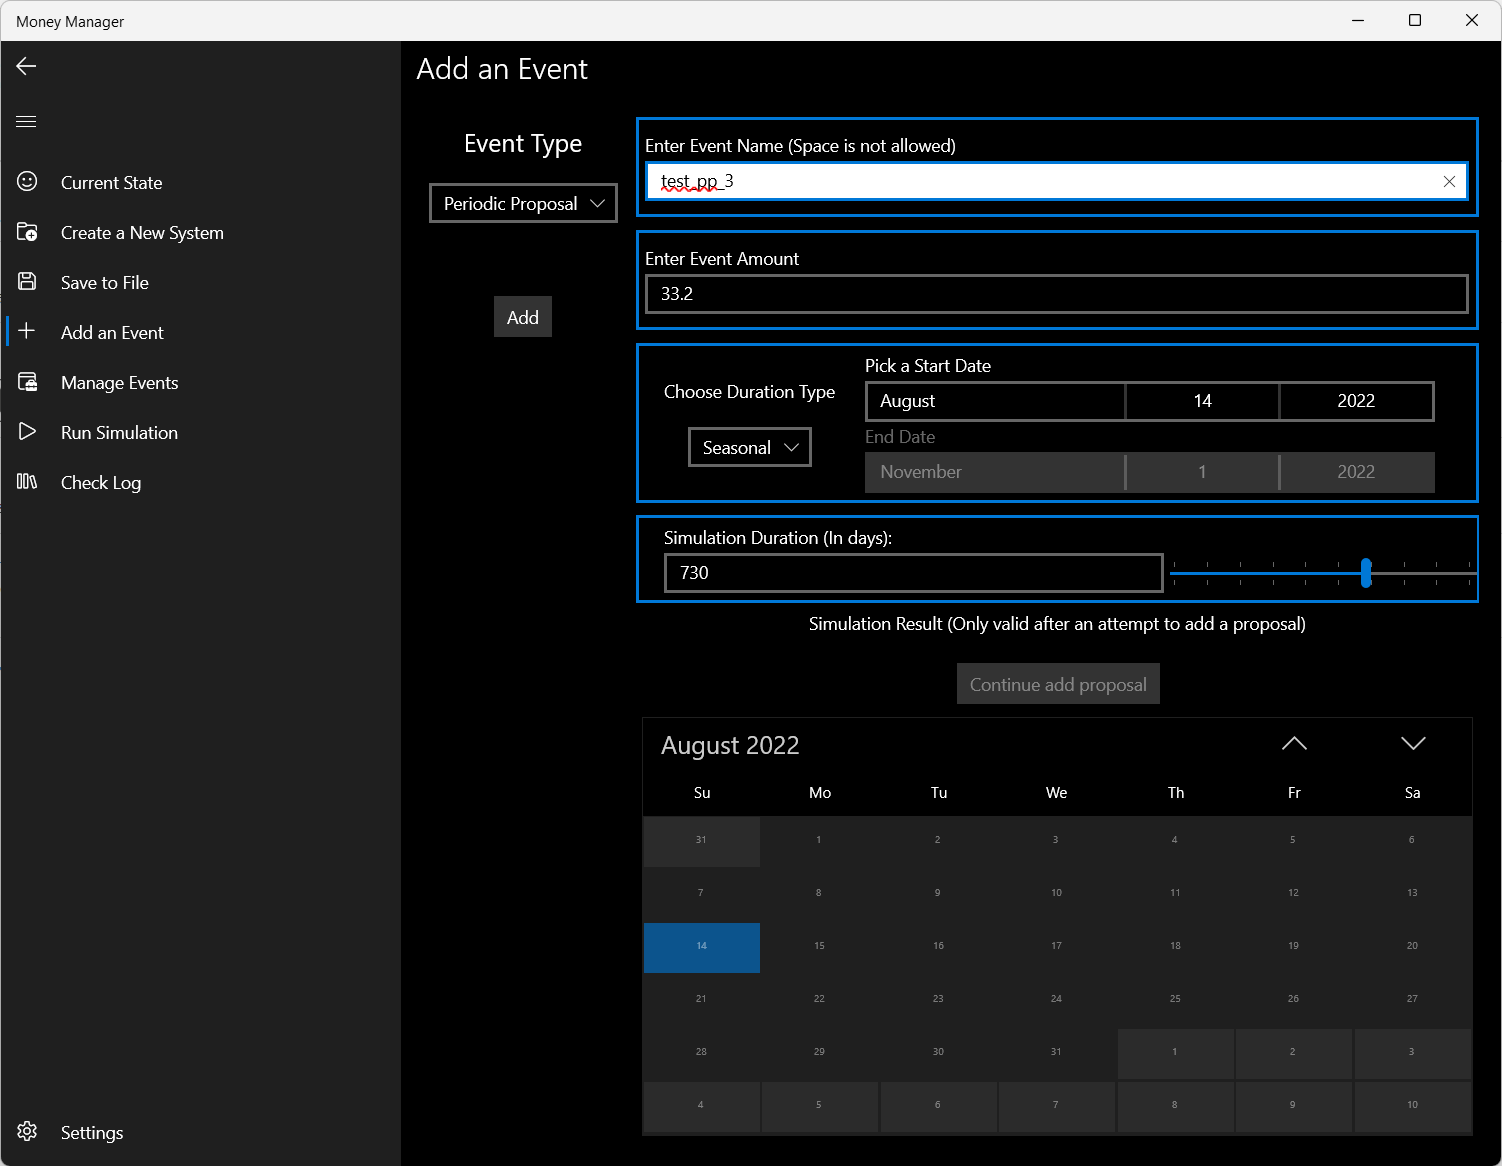
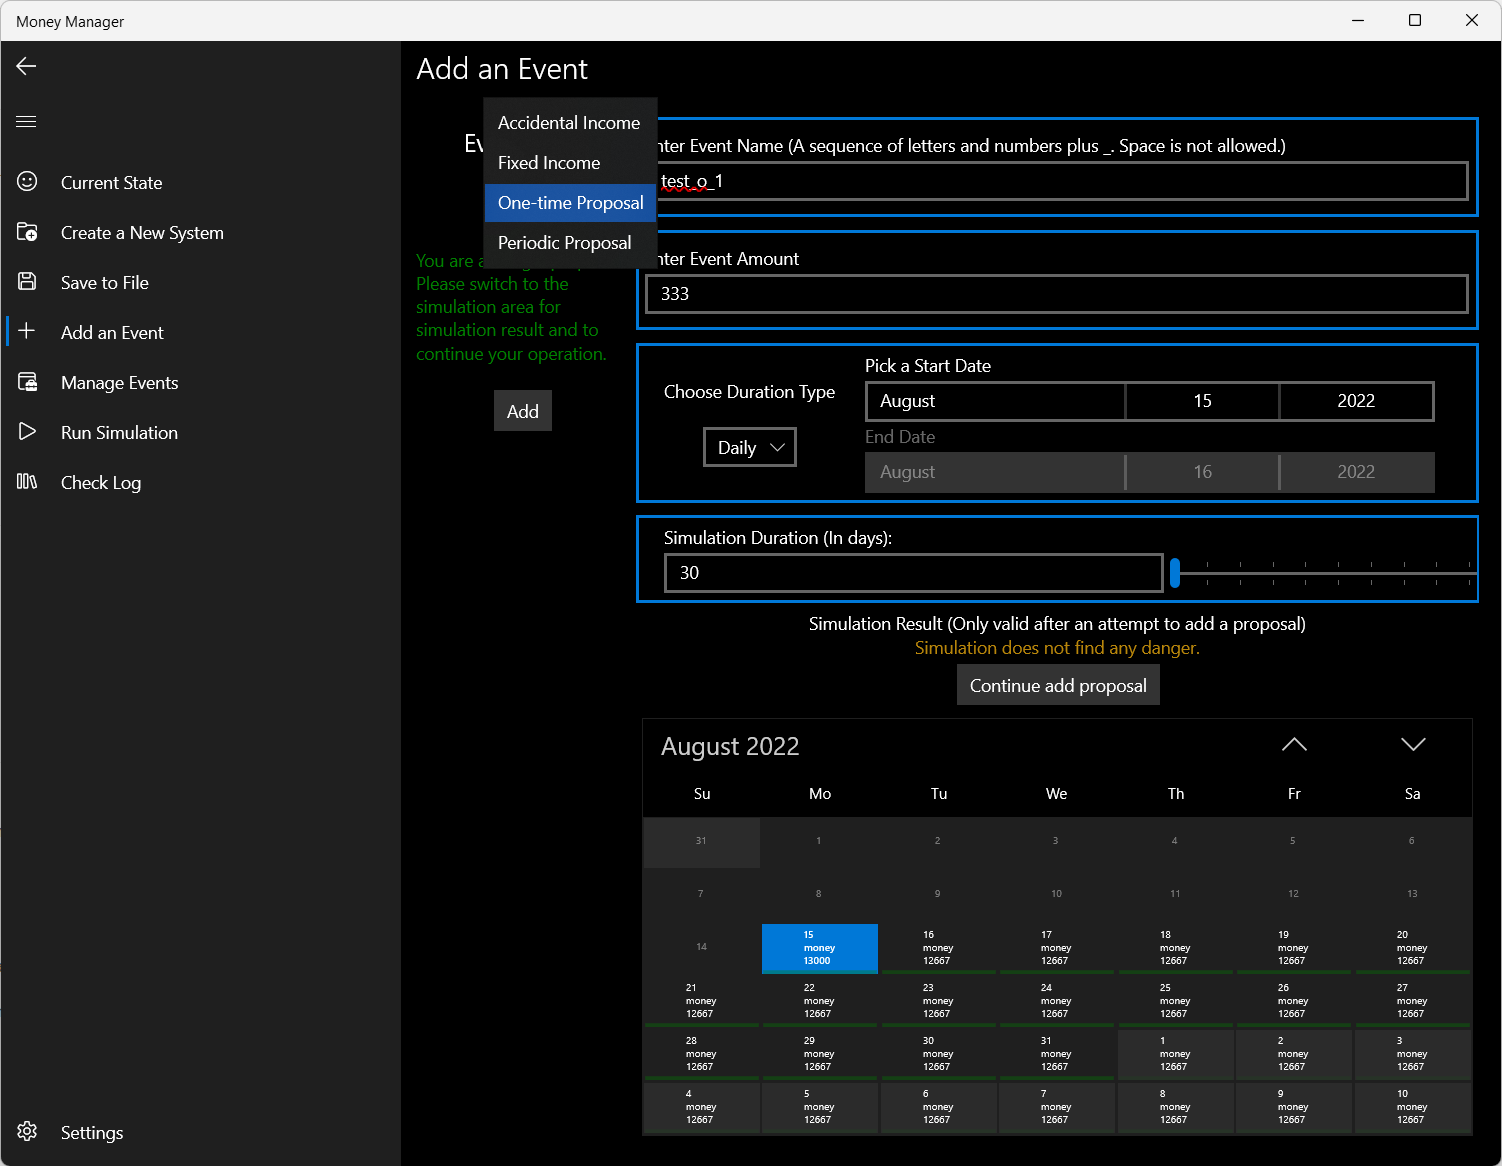
2.0.3: Add some restrictions on the user input and texts indicating that; Support x86 devices

diff --git a/main_GUI/FindEventPage.xaml b/main_GUI/FindEventPage.xaml
@@ -98,7 +98,10 @@
 
             <Border BorderThickness="2" BorderBrush="{ThemeResource SystemControlHighlightAccentBrush}" Margin="0,10,10,10">
                 <StackPanel Orientation="Horizontal" HorizontalAlignment="Left" Margin="10,0,0,0">
-                    <TextBox x:Name="Actual_Input" Header="Current event actual" HorizontalAlignment="Left" VerticalAlignment="Center" Margin="10,10,10,10"/>
+                    <TextBox x:Name="Actual_Input" 
+                             Header="Current event actual" 
+                             PlaceholderText="Can only be applied the day before the event's end" TextWrapping="Wrap"
+                             HorizontalAlignment="Left" VerticalAlignment="Center" Margin="10,10,10,10"/>
                     <Button x:Name="Actual_Button" Content="Apply Actual" Click="Actual_Button_Click"/>
                 </StackPanel>
             </Border>
@@ -125,39 +128,5 @@
 
         </StackPanel>
     </Grid>
-
-    <!--<StackPanel MinHeight="30" MinWidth="200" HorizontalAlignment="Center" Background="Orange" Margin="0,10,0,10" VerticalAlignment="Center">
-        <Grid>
-            <Grid.RowDefinitions>
-                <RowDefinition Height="2*"/>
-                <RowDefinition Height="*"/>
-            </Grid.RowDefinitions>
-            <Grid.ColumnDefinitions>
-                <ColumnDefinition Width="Auto"/>
-                <ColumnDefinition Width="Auto"/>
-                <ColumnDefinition Width="Auto"/>
-            </Grid.ColumnDefinitions>
-
-            <SymbolIcon Grid.Column="0"
-                        Grid.Row="0" Grid.RowSpan="2"
-                        VerticalAlignment="Center"
-                        Margin="6,0,10,0"
-                        HorizontalAlignment="Stretch">
-            </SymbolIcon>
-            <TextBlock  Grid.Column="1"
-                        Grid.Row="0"
-                        Text="One-time Proposal testtt" FontSize="12" />
-            <TextBlock  Grid.Column="1"
-                        Grid.Row="1"
-                        Text="start: 08-07-2022 end: 09-07-2022" FontSize="8"
-                        Foreground="{ThemeResource SystemChromeGrayColor}" />
-            <TextBlock  Grid.Column="2"
-                        Grid.Row="0" Grid.RowSpan="2"
-                        Margin="10,0,10,0"
-                        VerticalAlignment="Center"
-                        Text="-700" FontSize="23"
-                        Foreground="Purple" />
-        </Grid>
-    </StackPanel>-->
 
 </Page>

diff --git a/main_GUI/AddEventPage.xaml b/main_GUI/AddEventPage.xaml
@@ -44,7 +44,7 @@
             <Border BorderThickness="2" BorderBrush="{ThemeResource SystemControlHighlightAccentBrush}" Margin="5,5,5,5">
                 <TextBox 
                     x:Name="Name_Input"
-                    Header="Enter Event Name (Space is not allowed)"
+                    Header="Enter Event Name (A sequence of letters and numbers plus _. Space is not allowed.)"
                     PlaceholderText="A name is required"
                     TextChanged="Name_Input_TextChanged"
                     Margin="5,10,5,10"

diff --git a/main_GUI/AddEventPage.cpp b/main_GUI/AddEventPage.cpp
@@ -111,7 +111,16 @@ void winrt::main_GUI::implementation::AddEventPage::Button_Click(winrt::Windows:
 {
     Error_Message().Text(L"");
 
-    name = winrt::to_string(Name_Input().Text());
+    if (std::regex_match(std::wstring(Name_Input().Text()), ::event_name_wregex_obj))
+    {
+        name = winrt::to_string(Name_Input().Text());
+    }
+    else
+    {
+        SET_ERROR_MESSAGE(Error_Message(), L"Name is a sequence of letters and numbers plus _.");
+        return;
+    }
+
     std::wstring input_amount(Amount_Input().Text());
     if (std::regex_match(input_amount, ::double_wregex_obj))
     {
@@ -161,10 +170,7 @@ void winrt::main_GUI::implementation::AddEventPage::Button_Click(winrt::Windows:
 
             if (Event_Type_Picker().SelectedIndex() == 2)
             {
-                if (sim.emplace_ot_proposal(name, amount, start, type))
-                {
-                }
-                else
+                if (!sim.emplace_ot_proposal(name, amount, start, type))
                 {
                     SET_ERROR_MESSAGE(Error_Message(), L"The name has already been used.");
                     return;
@@ -172,10 +178,7 @@ void winrt::main_GUI::implementation::AddEventPage::Button_Click(winrt::Windows:
             }
             else if (Event_Type_Picker().SelectedIndex() == 3)
             {
-                if (sim.emplace_p_proposal(name, amount, start, type))
-                {
-                }
-                else
+                if (!sim.emplace_p_proposal(name, amount, start, type))
                 {
                     SET_ERROR_MESSAGE(Error_Message(), L"The name has already been used.");
                     return;
@@ -188,10 +191,12 @@ void winrt::main_GUI::implementation::AddEventPage::Button_Click(winrt::Windows:
 
                 while (sim.get_date() < sim.end_date)
                 {
-                    sim.advance_one_day();
-                    sim_results.push_back({ sim.in_safe_state(), (int)sim.get_cash() });
+                    bool bSafeState = sim.in_safe_state();
 
-                    if (!sim.in_safe_state())
+                    sim_results.push_back({ bSafeState, (int)sim.get_cash() });
+                    sim.advance_one_day();
+
+                    if (!bSafeState)
                     {
                         sim.aborted = true;
                         break;

diff --git a/main_GUI/internal_sys.h b/main_GUI/internal_sys.h
@@ -13,6 +13,7 @@ extern std::atomic_bool save_system_completed;
 
 constexpr auto integer_wregex = L"[\\d]+";
 constexpr auto double_wregex = L"((?:[\\d]*[.])?[\\d]+)";
+constexpr auto event_name_wregex = L"[a-zA-Z0-9_]+";
 
 constexpr auto sf_second_line_wregex = L"((?:[\\d]*[.])?[\\d]+) ((?:[\\d]*[.])?[\\d]+)";
 // line of an event. we do not use the precise regex for dates here, as it will be tested in string_to_date()
@@ -20,6 +21,7 @@ constexpr auto sf_event_line_wregex = L"([\\w]+) ([\\d\\-]+) ([\\d\\-]+) ((?:[\\
 
 extern const std::wregex integer_wregex_obj;
 extern const std::wregex double_wregex_obj;
+extern const std::wregex event_name_wregex_obj;
 
 extern const std::wregex sf_second_line_wregex_obj;
 extern const std::wregex sf_event_line_wregex_obj;

diff --git a/main_GUI/RunSimulationPage.cpp b/main_GUI/RunSimulationPage.cpp
@@ -44,10 +44,12 @@ void winrt::main_GUI::implementation::RunSimulationPage::Button_Click(winrt::Win
     double total = 0.0;
     while (sim.get_date() < sim.end_date)
     {
-        sim.advance_one_day();
-        
         bool bSafeState = sim.in_safe_state();
+
         sim_results.push_back({ bSafeState, (int)sim.get_cash() });
+        sim.advance_one_day();
+
+        total += sim.get_cash() - sim.get_expectation();
 
         if (!bSafeState)
         {
@@ -55,7 +57,6 @@ void winrt::main_GUI::implementation::RunSimulationPage::Button_Click(winrt::Win
             break;
         }
 
-        total += sim.get_cash() - sim.get_expectation();
     }
 
     if (sim.aborted)

diff --git a/main_GUI/internal_sys.cpp b/main_GUI/internal_sys.cpp
@@ -12,6 +12,7 @@ money_manager g_mgr;
 
 const std::wregex double_wregex_obj(::double_wregex);
 const std::wregex integer_wregex_obj(::integer_wregex);
+const std::wregex event_name_wregex_obj(::event_name_wregex);
 
 const std::wregex sf_second_line_wregex_obj(sf_second_line_wregex);
 const std::wregex sf_event_line_wregex_obj(sf_event_line_wregex);
